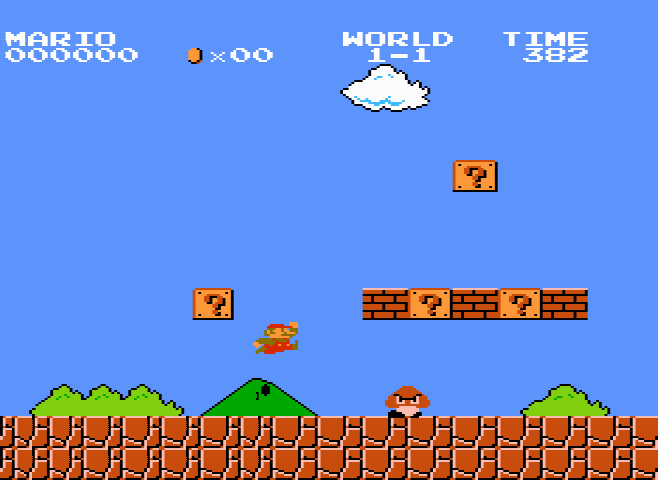
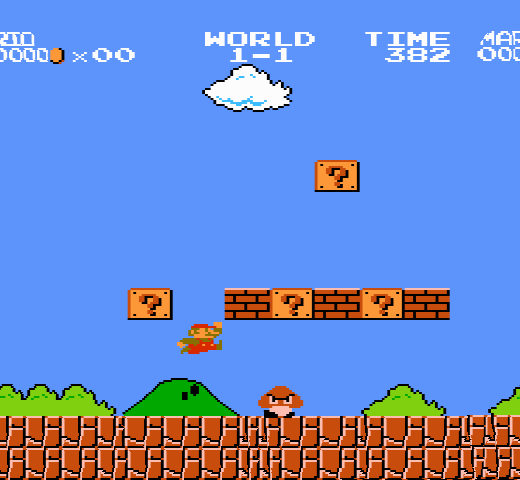
Works but shifts image?

diff --git a/ParallelSeamCarving/Image.cpp b/ParallelSeamCarving/Image.cpp
@@ -50,7 +50,7 @@ void Image::WriteImage(std::string filename)
 	arraySize = imgHeight * imgWidth; 
 	std::vector<uint8_t> outArray(arraySize * channelsNum);
 
-	for (int i = 0, j = 0; i < arraySize; ++i, j += channelsNum)
+	for (size_t i = 0, j = 0; i < arraySize; ++i, j += channelsNum)
 	{
 		outArray[j] = pixelArray[i].R;
 		outArray[j + 1] = pixelArray[i].G;
@@ -73,7 +73,7 @@ void Image::DisplayInformation()
 void Image::ShowGradientImage(std::string filename)
 {
 	TIMER_START; 
-	CalculateGradient(); 
+	CalculateEnergy(); 
 	TIMER_END; 
 
 	WriteImageDebug(filename, energyArray); 
@@ -88,7 +88,7 @@ void Image::ShowCumulativeEnergyImage(std::string filename)
 	WriteImageDebug(filename, cumulativeEnergyArray); 
 }
 
-void Image::CalculateGradient()
+void Image::CalculateEnergy()
 {
 	// Each thread takes a pixel
 	#pragma omp parallel for
@@ -98,11 +98,11 @@ void Image::CalculateGradient()
 		std::vector<Pixel> pixelNeighbors = GetPixelNeighbors(i);
 		
 		// Calculates gradient 
-		Pixel gradX = CalculateGradientX(pixelNeighbors);
-		Pixel gradY = CalculateGradientY(pixelNeighbors);
+		Vector3 gradX = CalculateGradientX(pixelNeighbors);
+		Vector3 gradY = CalculateGradientY(pixelNeighbors);
 
 		// Calcualtes pixel energy
-		double energy = CalculateEnergy(gradX, gradY); 
+		double energy = GetEnergy(gradX, gradY); 
 
 		// Stores it in energy array
 		energyArray[i] = energy; 
@@ -148,22 +148,33 @@ void Image::CalculateCumulativeEnergy()
 	}
 }
 
-Pixel Image::CalculateGradientX(std::vector<Pixel> pixelNeighbors)
-{
-	assert(pixelNeighbors.size() == 8); 
-	return pixelNeighbors[7] - pixelNeighbors[0] - pixelNeighbors[1] * 2 - pixelNeighbors[2]+ pixelNeighbors[5] + pixelNeighbors[6] * 2;
-}
-
-Pixel Image::CalculateGradientY(std::vector<Pixel> pixelNeighbors)
+Vector3 Image::CalculateGradientX(std::vector<Pixel> pixelNeighbors)
 {
 	assert(pixelNeighbors.size() == 8);
-	return pixelNeighbors[0] + pixelNeighbors[3] * 2 + pixelNeighbors[5] - pixelNeighbors[2] - pixelNeighbors[4] * 2 - pixelNeighbors[7];
+
+	Vector3 vec; 
+	vec.X = pixelNeighbors[7].computeR - pixelNeighbors[0].computeR - pixelNeighbors[1].computeR * 2 - pixelNeighbors[2].computeR + pixelNeighbors[5].computeR + pixelNeighbors[6].computeR * 2;
+	vec.Y = pixelNeighbors[7].computeG - pixelNeighbors[0].computeG - pixelNeighbors[1].computeG * 2 - pixelNeighbors[2].computeG + pixelNeighbors[5].computeG + pixelNeighbors[6].computeG * 2;
+	vec.Z = pixelNeighbors[7].computeB - pixelNeighbors[0].computeB - pixelNeighbors[1].computeB * 2 - pixelNeighbors[2].computeB + pixelNeighbors[5].computeB + pixelNeighbors[6].computeB * 2;
+
+	return vec; 	
 }
 
-double Image::CalculateEnergy(Pixel& gradX, Pixel& gradY)
+Vector3 Image::CalculateGradientY(std::vector<Pixel> pixelNeighbors)
 {
-	Pixel SquaredSummed = gradX * gradX + gradY * gradY;
-	return (std::sqrt(SquaredSummed.computeR) + std::sqrt(SquaredSummed.computeG) + std::sqrt(SquaredSummed.computeB)) / channelsNum;
+	assert(pixelNeighbors.size() == 8);
+
+	Vector3 vec;
+	vec.X = pixelNeighbors[0].computeR + pixelNeighbors[3].computeR * 2 + pixelNeighbors[5].computeR - pixelNeighbors[2].computeR - pixelNeighbors[4].computeR * 2 - pixelNeighbors[7].computeR;
+	vec.Y = pixelNeighbors[0].computeG + pixelNeighbors[3].computeG * 2 + pixelNeighbors[5].computeG - pixelNeighbors[2].computeG - pixelNeighbors[4].computeG * 2 - pixelNeighbors[7].computeG;
+	vec.Z = pixelNeighbors[0].computeB + pixelNeighbors[3].computeB * 2 + pixelNeighbors[5].computeB - pixelNeighbors[2].computeB - pixelNeighbors[4].computeB * 2 - pixelNeighbors[7].computeB;
+	return vec; 
+}
+
+double Image::GetEnergy(Vector3& gradX, Vector3& gradY)
+{
+	Vector3 SquaredSummed = gradX * gradX + gradY * gradY; 
+	return (std::sqrt(SquaredSummed.X) + std::sqrt(SquaredSummed.Y) + std::sqrt(SquaredSummed.Z)) / channelsNum;	
 }
 
 std::vector<Pixel> Image::GetPixelNeighbors(const int index)
@@ -187,6 +198,7 @@ std::vector<Pixel> Image::GetPixelNeighbors(const int index)
 
 void Image::ResetPixelValues()
 {
+	#pragma omp parallel for
 	for (int i = 0; i < arraySize; ++i)
 	{
 		pixelArray[i].Reset(); 
@@ -206,40 +218,39 @@ void Image::WriteImageDebug(std::string filename, double* forArray)
 
 void Image::RemoveSeam()
 {
+	TIMER_START; 
+
+	// Main code for seam removal - this must be sequentinoal 
 	for (int i = 0; i < numOfPixels; ++i)
 	{
-		CalculateGradient();
+#if DEBUG_MODE
+		std::cout << "Removing " << i + 1 << ". seam... " << std::endl; 
+#endif
+
+		// 1. Step calculate energy 
+		CalculateEnergy();
+
+		// 2. Step calculate cumulative energy 
 		CalculateCumulativeEnergy(); 
 
-		std::vector<int> indexesToRemoeve = FindMinPath();
-		assert(indexesToRemoeve.size() == imgHeight);
+		// 3. Step remove 1 pixel column from image 
+		std::vector<int> indexesToRemove = FindMinPath();
+		assert(indexesToRemove.size() == imgHeight);
 
-		Pixel* newPixelArray = new Pixel[imgHeight * (imgWidth - 1)];
-
-		// For each row 
-		for (int i = 0; i < indexesToRemoeve.size(); ++i)
+		for (int i = 0, shift = 0; i < indexesToRemove.size(); ++i)
 		{
-			int startingIndex = i * imgWidth; 
-			int endingIndex = startingIndex + imgWidth; 
-			RemovePixel(indexesToRemoeve[i], newPixelArray, startingIndex, endingIndex);
+			indexesToRemove[i] -= shift++; 
+			ShiftPixelArray(indexesToRemove[i], arraySize); 
+			--arraySize; 
 		}
 
-		// Update array size and img width
+		// 4. Step update values
 		--imgWidth;
-		arraySize = imgHeight * imgWidth;		
-
-		delete[] pixelArray;
-		delete[] energyArray;
-		delete[] cumulativeEnergyArray;
-
-		pixelArray = newPixelArray;
-		energyArray = new double[arraySize]; 
-		cumulativeEnergyArray = new double[arraySize];
-		
-		std::cout << "Called"; 
-		
-		ResetPixelValues(); 
+		arraySize = imgHeight * imgWidth;
+		ResetPixelValues();		
 	}
+
+	TIMER_END; 
 }
 
 std::vector<int> Image::FindMinPath()
@@ -291,16 +302,10 @@ std::vector<int> Image::FindMinPath()
 	return indexesToRemove; 
 }
 
-void Image::RemovePixel(int atIndex, Pixel* newArray, int startingIndex, int endingIndex)
+void Image::ShiftPixelArray(int index, int size)
 {
-	static int k = 0; 
-	for (int i = startingIndex; i < endingIndex; ++i)
+	for (int i = index; i < size - 1; ++i)
 	{
-		if (i == atIndex) continue; 
-		newArray[k] = pixelArray[i];
-		++k; 
+		pixelArray[i] = pixelArray[i + 1]; 
 	}
-	if (endingIndex == arraySize)
-		k = 0; 	
 }
-

diff --git a/ParallelSeamCarving/Image.h b/ParallelSeamCarving/Image.h
@@ -31,42 +31,35 @@ struct Pixel
 	uint8_t  B;
 	uint8_t  A;
 
-	uint8_t Energy = 0;
-	uint8_t CumulativeEnergy = 0;
-
 	double  computeR;
 	double  computeG;
 	double  computeB;
 
-	// Call this on all pixels after removing first pixel column 
+	// Call this on all pixels after removing pixel column 
 	void Reset()
 	{
 		computeR = R; 
 		computeG = G;
 		computeB = B;
 	}
-
-	Pixel operator +(const Pixel& other) const
-	{
-		return Pixel(this->computeR + other.computeR, this->computeG + other.computeG, this->computeB + other.computeB, this->A);
-	}
-
-	Pixel operator -(const Pixel& other) const
-	{
-		return Pixel(this->computeR - other.computeR, this->computeG - other.computeG, this->computeB - other.computeB, this->A);
-	}
-
-	Pixel operator *(const int& other) const
-	{
-		return Pixel(this->computeR * other, this->computeG * other, this->computeB * other, this->A);
-	}
-	
-	Pixel operator * (const Pixel& other) const
-	{
-		return Pixel(this->computeR * other.computeR, this->computeG * other.computeG, this->computeB * other.computeB, this->A);
-	}
 };
 
+struct Vector3
+{
+	Vector3() = default; 
+	Vector3(double X, double Y, double Z) : X(X), Y(Y), Z(Z) {}
+	double X, Y, Z; 
+
+	Vector3 operator * (const Vector3& other) const
+	{
+		return Vector3(this->X * other.X, this->Y * other.Y, this->Z * other.Z);
+	}
+
+	Vector3 operator +(const Vector3& other) const
+	{
+		return Vector3(this->X + other.X, this->Y + other.Y, this->Z + other.Z);
+	}
+};
 
 class Image
 {
@@ -89,27 +82,30 @@ public:
 	/* Calculate and save cumulative energy image - debug only */
 	void ShowCumulativeEnergyImage(std::string filename); 
 
+	/* Main function to remove semas */
 	void RemoveSeam();
 
 private:
-	void CalculateGradient(); 
+	void CalculateEnergy(); 
 	void CalculateCumulativeEnergy(); 
 	
-	Pixel CalculateGradientX(std::vector<Pixel> pixelNeighbors);
-	Pixel CalculateGradientY(std::vector<Pixel> pixelNeighbors);	
+	Vector3 CalculateGradientX(std::vector<Pixel> pixelNeighbors);
+	Vector3 CalculateGradientY(std::vector<Pixel> pixelNeighbors);
 
-	double CalculateEnergy(Pixel& gradX, Pixel& gradY);
+	double GetEnergy(Vector3& gradX, Vector3& gradY);
+	std::vector<int> FindMinPath();
 
+	/* Returns vector (array) of 8 neighbouring pixels */
 	std::vector<Pixel> GetPixelNeighbors(const int index);
 
-	// Call after removing pixel column 
+	/* Call after removing pixel column */
 	void ResetPixelValues(); 
-
-	// Helper function for showing debug images 
+	  
+	/* Helper function for showing debug images */
 	void WriteImageDebug(std::string filename, double* forArray);
-	
-	std::vector<int> FindMinPath();
-	void RemovePixel(int atIndex, Pixel* newArray, int startingIndex, int endingIndex);
+
+	/* Shifts all pixes after index in pixel array*/
+	void ShiftPixelArray(int index, int size);
 
 private:
 	int imgWidth = 0;
@@ -117,6 +113,8 @@ private:
 	int channelsNum = 0;
 
 	int arraySize = 0; 
+
+	// User-specified number of pixel columns to remove from input image
 	const int numOfPixels; 
 
 	// Pointers to dynamic arrays 
